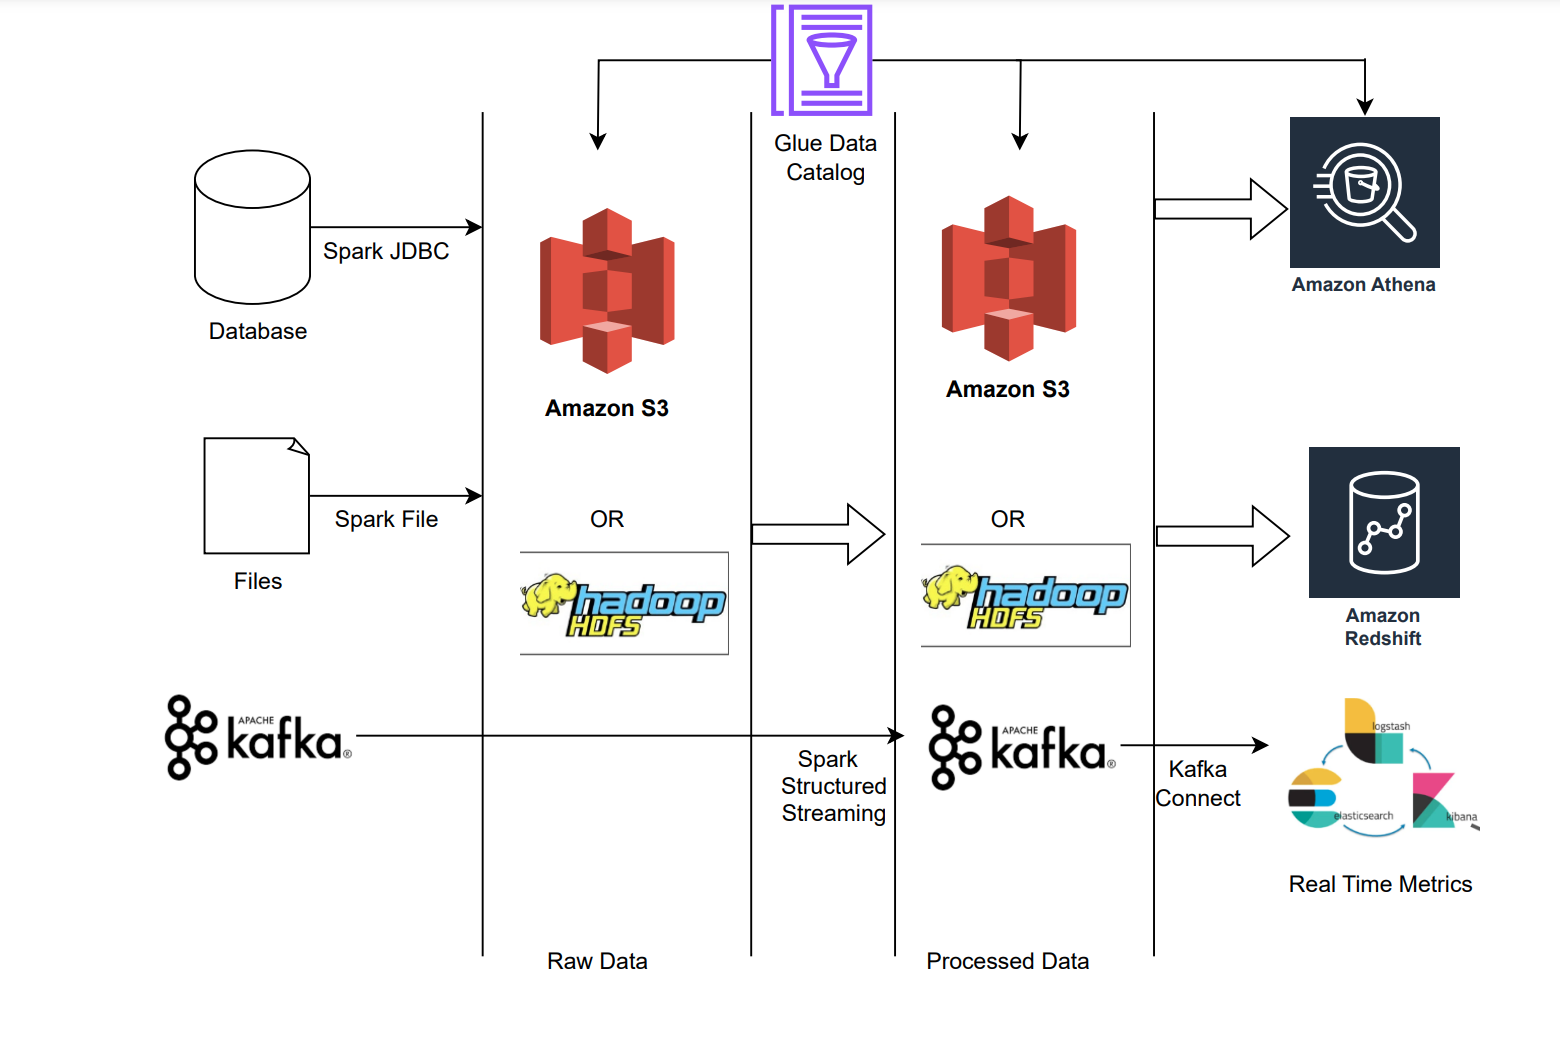
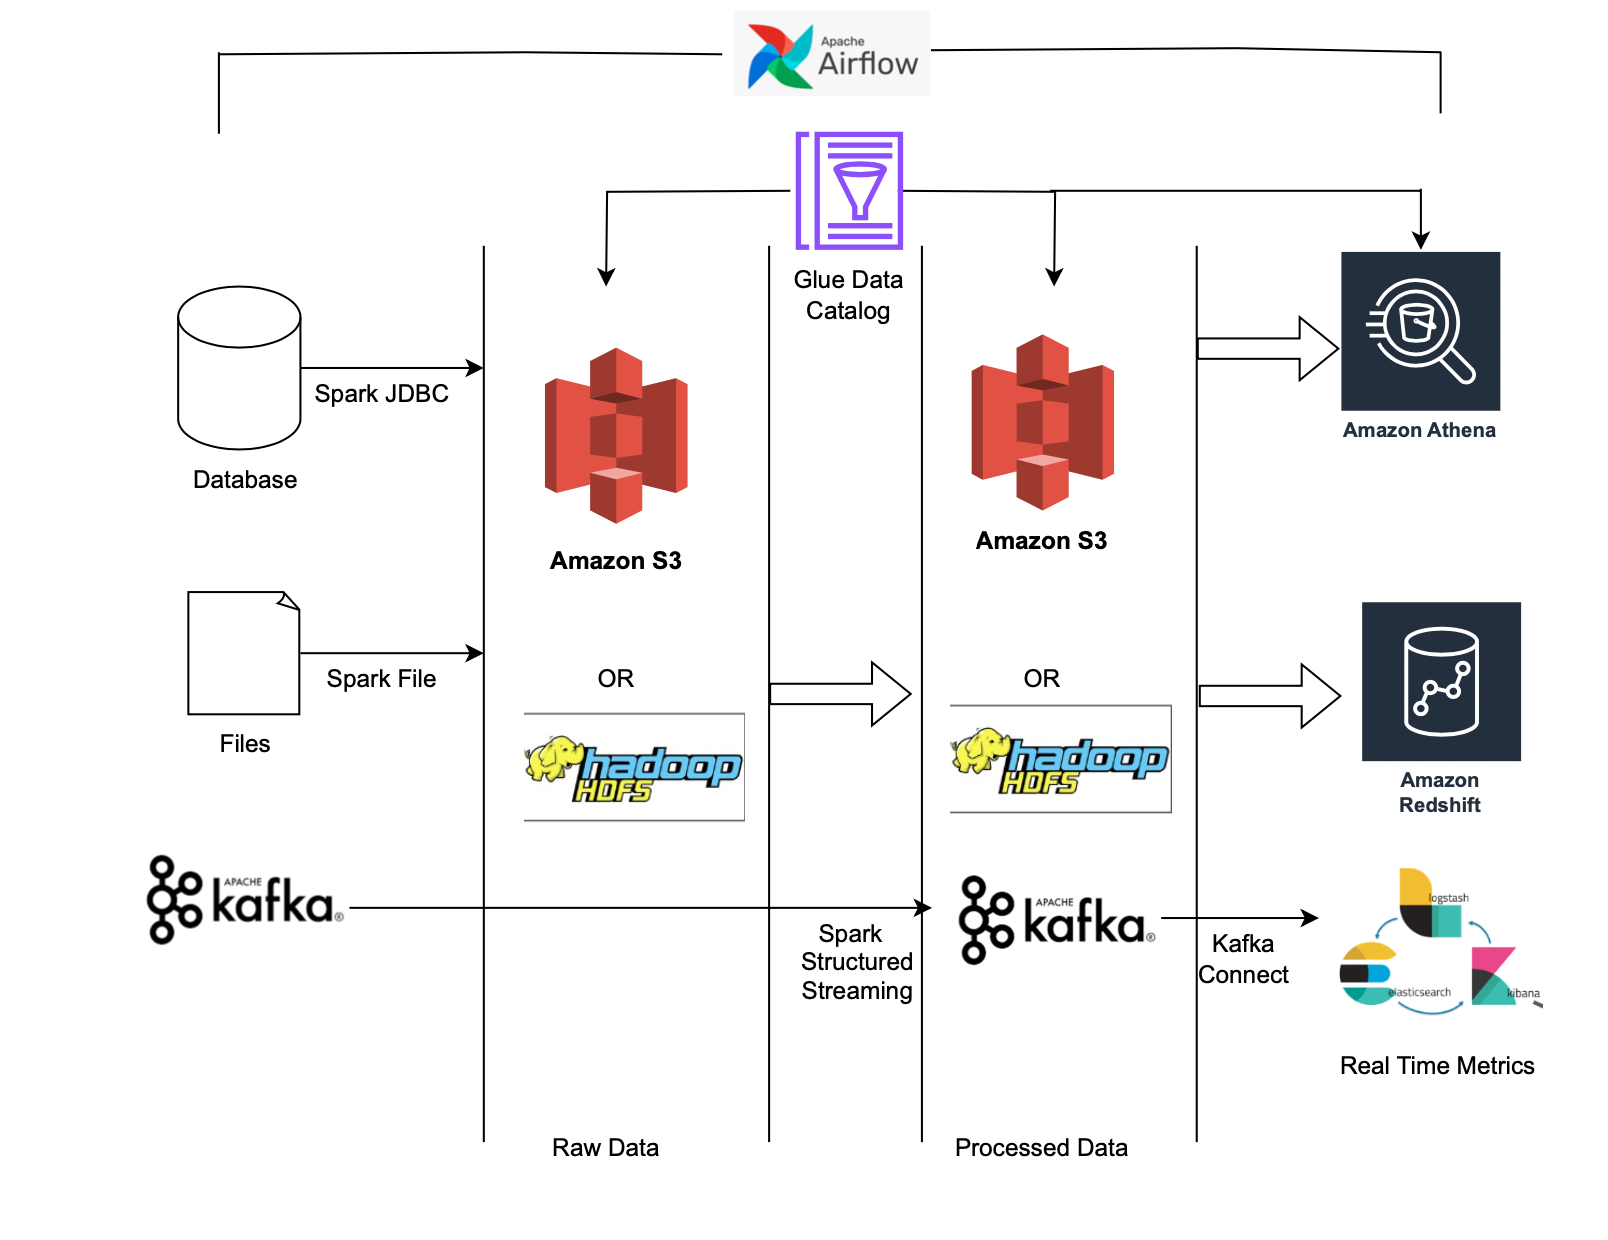
Initial Commit

diff --git a/README.md b/README.md
@@ -1,5 +1,9 @@
 # **Introduction** 
 
-In this project we will build data-lake from scrach. 
+In this project we will build data-lake from scratch.
+
 
 ![](resources/datalake.png) 
+
+
+**Tech** : Spark, Hadoop, Athena, EMR, S3, Python, ELK, Kafka, Airflow and Glue. 
